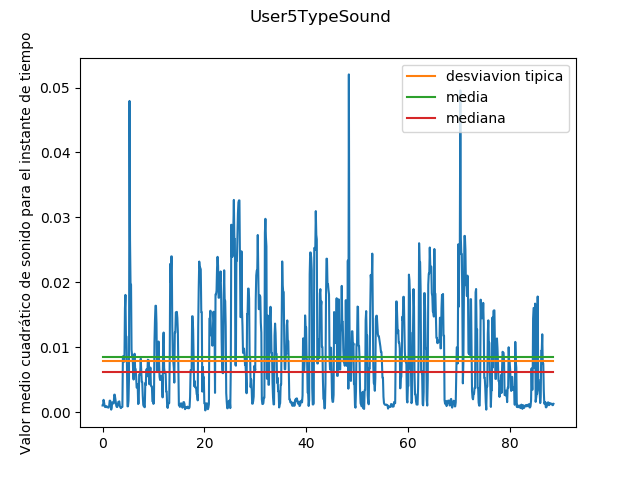
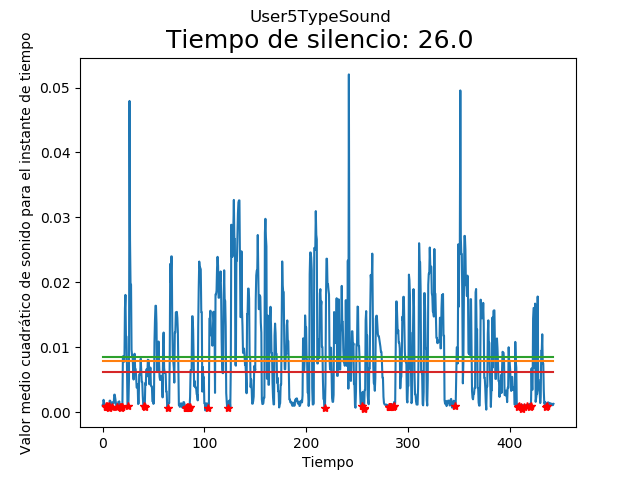
Problemas con la escala del tiempo

diff --git a/DataAnalytics/SoundLoudness.py b/DataAnalytics/SoundLoudness.py
@@ -2,32 +2,39 @@ import matplotlib as mpl
 import matplotlib.pyplot as plt
 import numpy as np
 
-
+THRESHOLD = 0.00095
 def DrawSoundLoudness(floatArray, interval):
     steps = np.zeros(len(floatArray))
     i = 0
-
+    silenceSteps = []
+    silence = []
     for z in range(len(floatArray)):
         if(i > 0):
             steps[i] = steps[i-1]+ interval
+            if(floatArray[i] < THRESHOLD and floatArray[i-1] < THRESHOLD):
+                silenceSteps.append(steps[i-1] + interval)
+                silence.append(floatArray[i])
         i = i +1
-    
-
 
     desviacion = np.std(floatArray)
     media = np.mean(floatArray)
     mediana = np.median(floatArray)
     coeficiente_variacion = desviacion/media
+
+    tiempoSilencio = (np.count_nonzero(silence))*interval
+    print("Tiempo de silencio: ", tiempoSilencio)
     #print("El coeficiente de variacion fué: ", (coeficiente_variacion*100), '%')
 
     fig = plt.figure()
     plt.plot(steps, floatArray, '-')
+    plt.plot(silenceSteps, silence, '*', color= 'red')
     plt.plot(steps, [desviacion for x in steps], '-', label = "desviavion tipica")
     plt.plot(steps, [media for x in steps], '-', label = 'media')
     plt.plot(steps, [mediana for x in steps], '-', label = 'mediana')
 
     plt.ylabel('Valor medio cuadrático de sonido para el instante de tiempo')
-    plt.legend()
+    plt.xlabel('Tiempo')
+    plt.figtext(.5,.9,'Tiempo de silencio: ' + str(tiempoSilencio), fontsize=18, ha='center')
     return fig
 
 

diff --git a/DataAnalytics/HandAnalytics.py b/DataAnalytics/HandAnalytics.py
@@ -39,17 +39,17 @@ def DrawHandAnalytics(floatArray, interval):
 
 
     plt.plot(steps, [desviacionX for x in steps], '-', label = "desviavion tipica X", color = 'red')
-    plt.plot(steps, [mediaX for x in steps], '-', label = 'media X', color= 'green')
+    plt.plot(steps, [mediaX for x in steps], '-', label = 'media X', color= 'brown')
     plt.plot(steps, [medianaX for x in steps], '-', label = 'mediana X', color = 'orange')
 
-    plt.plot(steps, [desviacionY for x in steps], '-', label = "desviavion tipica Y", color = 'red')
-    plt.plot(steps, [mediaY for x in steps], '-', label = 'media Y', color= 'green')
-    plt.plot(steps, [medianaY for x in steps], '-', label = 'mediana Y', color = 'orange')
+    plt.plot(steps, [desviacionY for x in steps], '-', label = "desviavion tipica Y", color = 'yellow')
+    plt.plot(steps, [mediaY for x in steps], '-', label = 'media Y', color= 'pink')
+    plt.plot(steps, [medianaY for x in steps], '-', label = 'mediana Y', color = 'purple')
 
 
     plt.ylabel('Valor de la mano por coordenada')
-    plt.legend()
 
+    plt.legend()
     return fig
 
 

diff --git a/DataAnalytics/Analytics.py b/DataAnalytics/Analytics.py
@@ -28,7 +28,7 @@ for filename in os.listdir(dataDir):
             fig = None
             if(dataType ==  'Sound'):
                 soundArray = np.array(jso['data'])
-                fig = SoundLoudness.DrawSoundLoudness(soundArray, step)
+                fig = SoundLoudness.DrawSoundLoudness(soundArray, 0.5)
 
             elif (dataType ==  'Vokaturi'):
                 vokaturiArr = np.array(jso['data'])
